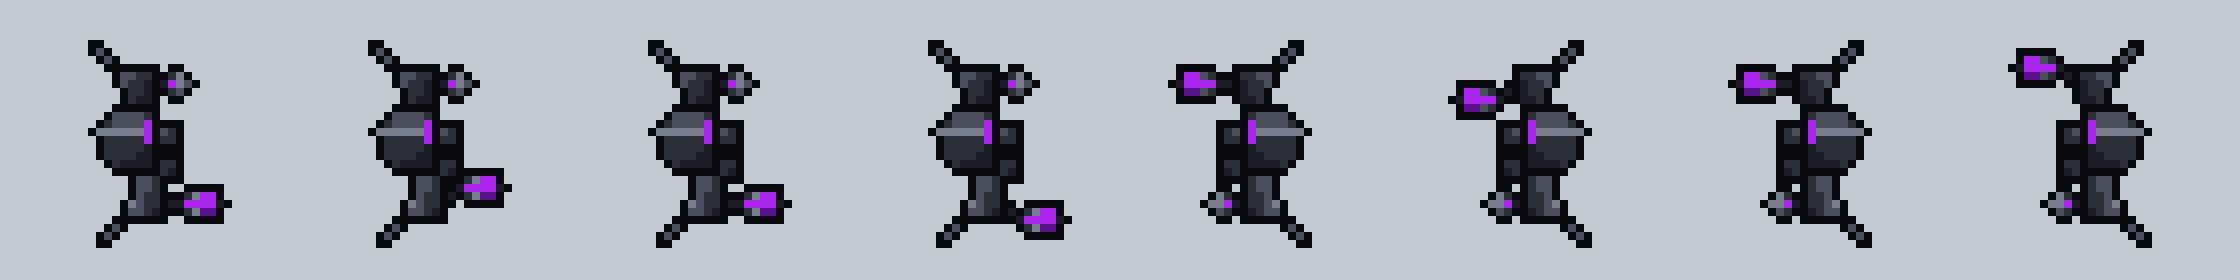
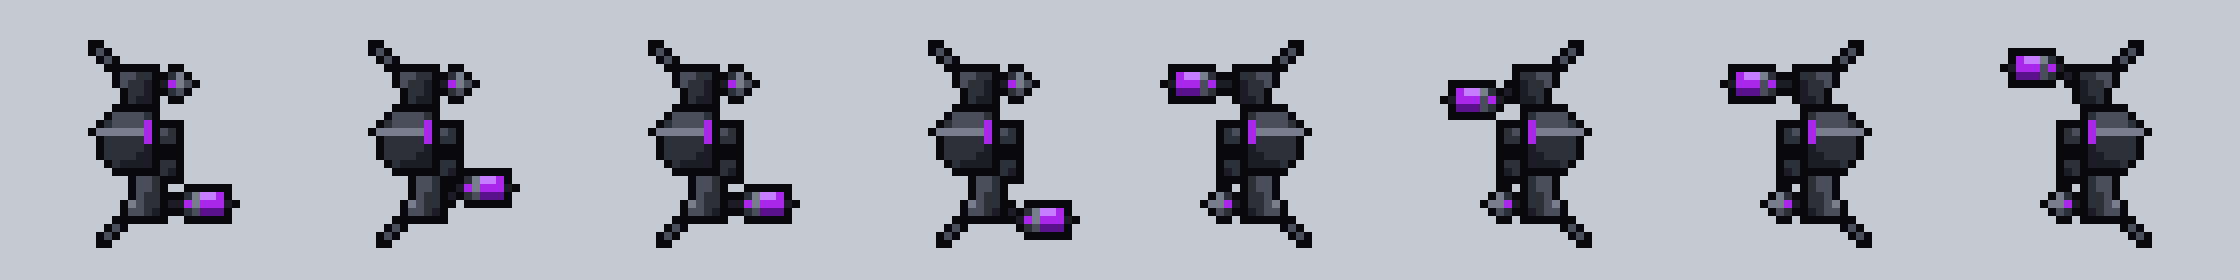
Mecha top-down test: a clean canister in a grey claw; the death stumbles and falls to one side
Claude-Session: https://claude.ai/code/session_01TQ4qhujdUDh59Vp7VzLUu7

diff --git a/docs/art/mecha/crew-topdown-test/tools/mech.py b/docs/art/mecha/crew-topdown-test/tools/mech.py
@@ -414,8 +414,9 @@ def clone():
 # 2026-11-10): Mecha purple.
 
 CANISTER = ["onvno",             # his wrist band
-            "oeveo",             # the clamp's two prongs on the canister's neck
-            "ovvqo",
+            "oeeao",             # the claw, grey, closed on the canister's neck
+            "oLvqo",             # the canister: a pale edge, purple, a dark side
+            "oLvqo",
             "ovvqo",
             ".oko.",             # its nozzle
             "..o.."]
@@ -423,8 +424,12 @@ SWEEP = (0, -1, 0, 1)
 
 
 def side_canister(near):
-    prong = "e" if near else "a"
-    return [".ooooo.", "on" + prong + "vvo.", "kvvvvko", "on" + prong + "qqo.", ".ooooo."]
+    claw = ("e", "e", "a") if near else ("e", "a", "a")
+    return [".oooooo..",
+            "on" + claw[0] + "LLvo..",          # band, claw, the canister's pale edge
+            "kv" + claw[1] + "vvvko.",          # arm, band, claw, canister, nozzle
+            "on" + claw[2] + "qqqo..",
+            ".oooooo.."]
 
 
 def fire_down():
@@ -512,34 +517,41 @@ def teleport():
     return [stand, lit, glow, bands, columns, rising, sparks, last]
 
 
-# --- Dying: the lights go out and the suit comes down in a heap --------------------------------------------------
+# --- Dying: the lights fail, he stumbles, and the suit falls in a heap ---------------------------------------------
 # Eight frames. Seen from almost straight above, a thing that falls moves down the screen to the floor, where his
-# feet are. The lights dim, then go out; the shoulders sag and the claws reach the floor; the helm drops onto the
-# torso; the plates come down either side; it ends a low, dark heap with its spikes still standing out of it.
+# feet are. He does not crumble straight down (heromedel, 2026-11-11): the lights dim as he takes a stumbling step;
+# they go out and he lurches to one side; the helm and the shoulder on that side go first and furthest; the other
+# shoulder follows; the claws hit the floor and slide out. It ends a low, dark heap leaning to that side, one spike
+# propped up and the other flat.
 
 def death():
-    def fallen(helm, torso, plates, arms, out=0, lights="out"):
-        """Each part by how many rows it has come down; the claws also slide `out` to the sides."""
-        parts = [(TORSO, moved(TORSO_AT, 0, torso)),
-                 (FOOT_LEFT, FOOT_LEFT_AT), (FOOT_RIGHT, FOOT_RIGHT_AT),          # his feet stay where they stood
-                 ([ARM] + CLAW_LEFT, moved(ARM_LEFT_AT, -out, arms)),
-                 ([ARM] + CLAW_RIGHT, moved(ARM_RIGHT_AT, out, arms)),
-                 (PLATE_LEFT, moved(PLATE_LEFT_AT, 0, plates)),
-                 (PLATE_RIGHT, moved(PLATE_RIGHT_AT, 0, plates)),
-                 (HELM, moved(HELM_AT, 0, helm))]
+    def fallen(helm, torso, left, right, left_claw, right_claw, stepping=False, lights="out"):
+        """Each part by how far it has moved (across, down) from where it stands."""
+        feet = [(["...."] + FOOT_LEFT[1:], moved(FOOT_LEFT_AT, 0, -1)),
+                ([LEG] + FOOT_RIGHT, moved(FOOT_RIGHT_AT, 1, 0))] if stepping else \
+               [(FOOT_LEFT, FOOT_LEFT_AT), (FOOT_RIGHT, moved(FOOT_RIGHT_AT, 1, 1))]
+        parts = [(TORSO, moved(TORSO_AT, *torso))] + feet + [
+                 ([ARM] + CLAW_LEFT, moved(ARM_LEFT_AT, *left_claw)),
+                 ([ARM] + CLAW_RIGHT, moved(ARM_RIGHT_AT, *right_claw)),
+                 (PLATE_LEFT, moved(PLATE_LEFT_AT, *left)),
+                 (PLATE_RIGHT, moved(PLATE_RIGHT_AT, *right)),
+                 (HELM, moved(HELM_AT, *helm))]
         if lights == "out":
             parts = [(unlit(rows), at) for rows, at in parts]
         image = frame(parts, AT)
         return recoloured(image, {"v": "q"}) if lights == "dim" else image
 
+    # The helm and both shoulders lurch to the side together, so the heap stays in one piece; what differs is how
+    # far each has come down.
+    #              helm    torso   left    right   left claw  right claw
     return [figure(),
-            fallen(0, 0, 1, 1, lights="dim"),          # the lights dim and the shoulders sag
-            fallen(1, 0, 2, 2),                        # the lights go out
-            fallen(3, 1, 4, 4, 1),                     # the claws reach the floor and slide out
-            fallen(5, 2, 6, 6, 2),                     # the helm drops onto the torso
-            fallen(6, 3, 7, 7, 2),                     # the plates come down either side of it
-            fallen(6, 3, 8, 7, 2),
-            fallen(7, 3, 8, 7, 2)]                     # a low, dark heap, its spikes still standing out of it
+            fallen((0, 0), (0, 0), (0, -1), (0, 1), (0, -2), (0, 1), stepping=True, lights="dim"),
+            fallen((1, 1), (1, 0), (1, 0), (1, 2), (1, 0), (1, 2), stepping=True),
+            fallen((2, 3), (1, 1), (2, 2), (2, 4), (1, 3), (3, 4)),
+            fallen((3, 5), (2, 2), (3, 4), (3, 6), (1, 5), (4, 6)),
+            fallen((3, 6), (2, 3), (3, 6), (3, 8), (0, 6), (4, 7)),
+            fallen((3, 7), (2, 3), (3, 7), (3, 8), (0, 7), (4, 7)),
+            fallen((3, 7), (2, 3), (3, 7), (3, 9), (0, 7), (4, 7))]
 
 
 def portrait():

diff --git a/docs/art/mecha/crew-topdown-test/README.md b/docs/art/mecha/crew-topdown-test/README.md
@@ -111,9 +111,12 @@ little to his right and a little to his left, with no flash, and the shot a spri
 Staging after the genre's sheets: four frames a direction, a canister swept from side to side (straight, a little to
 his right, straight, a little to his left), with no spray.
 
-- **Ai-Generated-Proposal (2026-11-11):** he holds the canister in his right clamp, the two prongs on its neck. It is
-  Mecha purple, following the idea proposed for the drifter's that an extinguisher takes the power colour of the race
-  using it (heromedel, 2026-11-10).
+- **Ai-Generated-Proposal (2026-11-11):** he holds the canister in his right clamp. It is Mecha purple, following
+  the idea proposed for the drifter's that an extinguisher takes the power colour of the race using it (heromedel,
+  2026-11-10).
+- The canister is a plain cylinder with a pale edge and a dark side, hanging from the claw, which stays grey. A
+  first version wrapped purple prongs round a purple canister, and his hand read as a purple blotch (heromedel,
+  2026-11-11).
 - The pose is the aim's: the shoulder of that arm forward, the arm reaching. Facing left it is still his right arm.
 
 ## Punching
@@ -121,7 +124,8 @@ his right, straight, a little to his left), with no spray.
 Six frames, after the genre's sheets: ready, the shoulder drawn back with the claw tucked under it, the strike with
 the arm at full reach, the arm coming back, ready, ready. He strikes with a closed claw. The whole shoulder line
 turns into the blow and the opposite foot steps with it, as in his walk. The genre has only the two directions,
-toward the camera and away.
+toward the camera and away. heromedel is content with it as it is (2026-11-11): making every race punch or hook toward the
+centre of the tile would get strange.
 
 ## Teleport
 
@@ -131,12 +135,17 @@ to light, and the light thins into bands, columns and sparks that rise. After th
 
 ## Death
 
-**Ai-Generated-Proposal (2026-11-11):** the lights go out and the suit comes down in a heap. Eight frames: the
-lights dim and the shoulders sag; the lights go out; the claws reach the floor and slide out to the sides; the helm
-drops onto the torso; the shoulder plates come down either side of it; it ends a low, dark heap with its spikes
-still standing out of it. Seen from almost straight above, a thing that falls moves down the screen to the floor,
-where his feet are, so every part moves toward his feet and they stay where they stood. The pilot is not shown. The
-old Mecha crew sheet's death melted from the feet up.
+**Ai-Generated-Proposal (2026-11-11), with heromedel's change the same day:** the lights fail, he stumbles, and the
+suit falls in a heap. Eight frames:
+
+- The lights dim as he takes a stumbling step. They go out and he lurches to one side.
+- The helm and both shoulders go over to that side together, so the suit stays in one piece, but the shoulder on
+  that side comes down first and furthest. The claws hit the floor and slide out.
+- It ends a low, dark heap leaning to that side, one spike propped up and the other lower.
+- A first version came straight down, which heromedel liked but said looked like crumbling, not falling; the step
+  and the lean are from that.
+- Seen from almost straight above, a thing that falls moves down the screen to the floor, where his feet are. The
+  pilot is not shown. The old Mecha crew sheet's death melted from the feet up.
 
 ## Powering a console
 
@@ -211,8 +220,8 @@ plans to show one; both now note this glimpse.
 - The front and back views read as heromedel's suit at game size, and they carry most of the rows.
 - The side view is still the weakest. It carries walk right and left, aim, fire and power right and left, and the
   repair.
-- Rows I would look at first: the repair, whose movement is only a pixel or two; fighting fire up, where the
-  canister crosses the spike on two frames; and the death, which is the most invented of the rows.
+- Rows I would look at first: the repair, whose movement is only a pixel or two, and fighting fire up, where the
+  canister crosses the spike on two frames. heromedel has passed the punch and the teleport (2026-11-11).
 - None of it has been seen on a real deck. Near-black armour with a near-black outline may sink into a dark Mecha
   floor.
 - The style guide's Decided look for suits still says "crest head, blade forearms". If this figure becomes the
